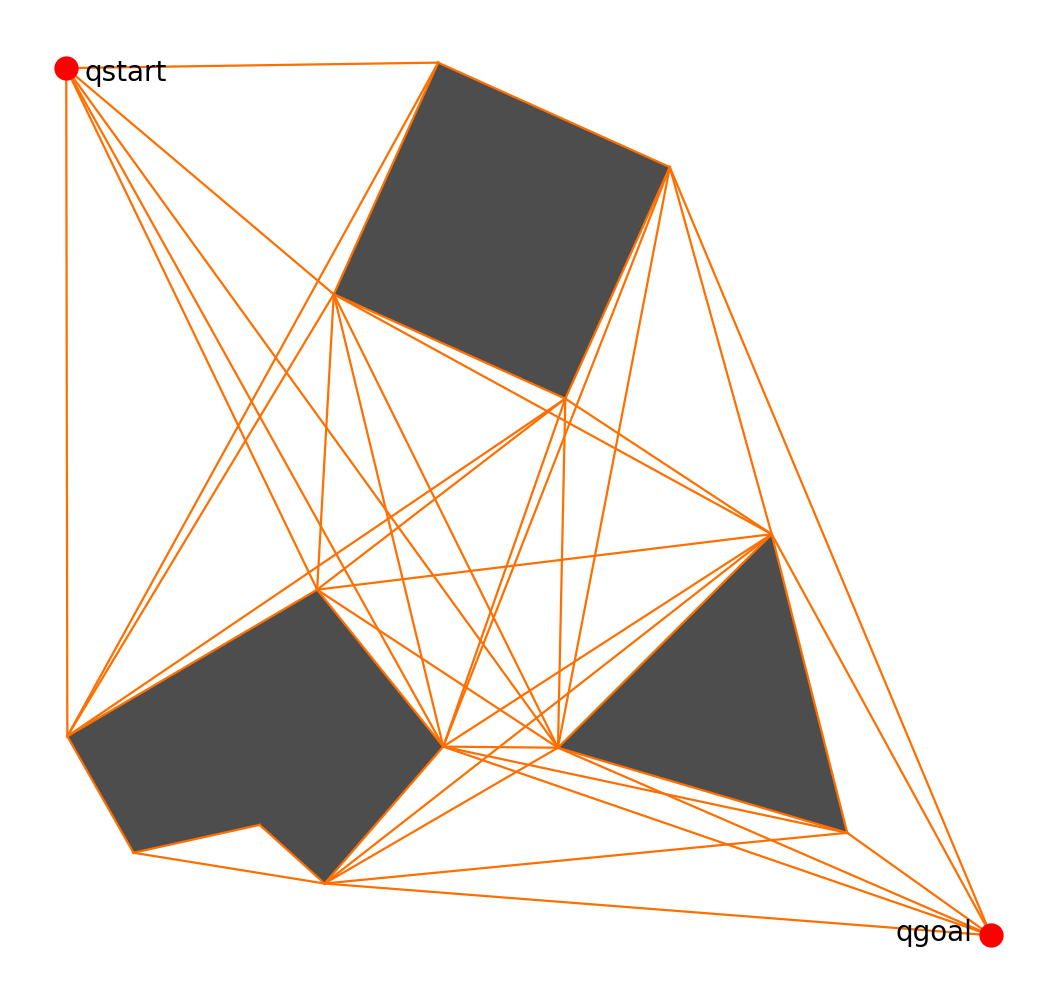
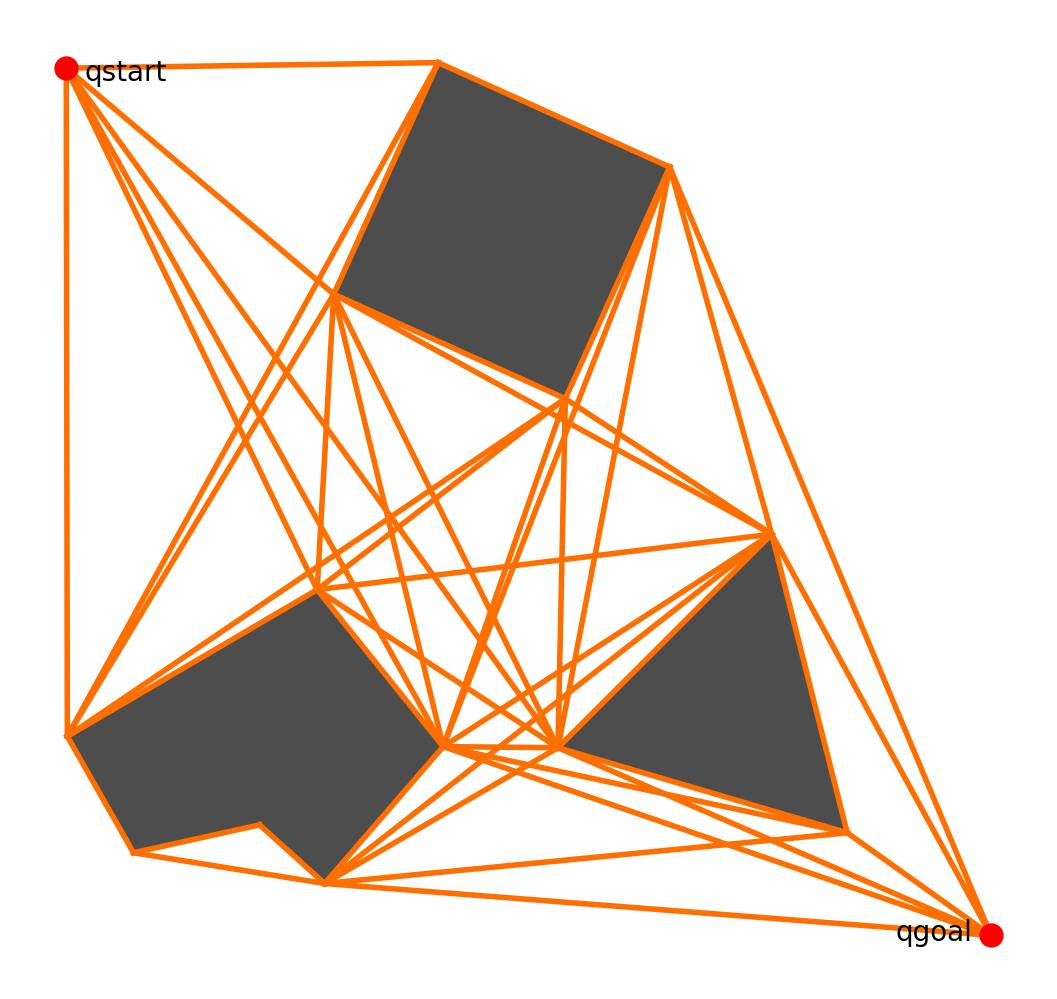
Atualizar mst

diff --git a/Caminho_Planejamento_Robo/Utils/plotar_mst.py b/Caminho_Planejamento_Robo/Utils/plotar_mst.py
@@ -1,0 +1,47 @@
+from pathlib import Path
+from Utils.file_reader import read_map_from_file
+from Modulos.visibility_graph import build_visibility_graph, VisibilityGraph
+from Modulos.kruskal import Graph as KruskalGraph
+from Utils.plotar_mapa import plot_map
+
+def build_mst_from_visibility(mapa):
+    vis = build_visibility_graph(mapa)
+    verts = vis.get_vertices()
+    idx_of = {v: i for i, v in enumerate(verts)}
+    n = len(verts)
+
+    kg = KruskalGraph(n)
+    for a, b, w in vis.get_edges():
+        ua, ub = idx_of[a], idx_of[b]
+        kg.add_edge(ua, ub, w)
+
+    mst_idx_edges, total_cost = kg.kruskal_mst()
+
+    mst_graph = VisibilityGraph()
+    for u_idx, v_idx, w in mst_idx_edges:
+        a = verts[u_idx]
+        b = verts[v_idx]
+        mst_graph.add_edge(a, b, w)
+
+    return vis, mst_graph, total_cost   
+
+
+if __name__ == "__main__":
+    project_root = Path(__file__).resolve().parent.parent
+    map_path = project_root / "Mapa" / "map1.txt"
+    if not map_path.is_file():
+        print("Arquivo map1.txt não encontrado em:", map_path)
+    else:
+        mapa = read_map_from_file(str(map_path))
+        grafo, mst_graph, cost = build_mst_from_visibility(mapa)
+        plot_map(mapa,grafo=grafo, mst_graph=mst_graph, save_path="mapa_mst.png")
+
+        num_vertices = len(mst_graph.get_vertices())
+        num_edges = len(mst_graph.get_edges())
+
+        print(f"Vertices na MST: {num_vertices}")
+        print(f"Arestas na MST: {num_edges}")
+        print(f"Custo total (distância): {cost}")
+        print(f"MST gerada e salva em mapa_mst.png (custo={cost})")
+
+             

diff --git a/Caminho_Planejamento_Robo/Modulos/kruskal.py b/Caminho_Planejamento_Robo/Modulos/kruskal.py
@@ -1,0 +1,57 @@
+class Graph:
+    def __init__(self, vertices):
+        self.V = vertices
+        self.edges = []  # lista de (u,v,w)
+
+    def add_edge(self, u, v, w):
+        self.edges.append((u, v, w))
+
+    def find(self, parent, i):
+        if parent[i] != i:
+            parent[i] = self.find(parent, parent[i])
+        return parent[i]
+
+    def union(self, parent, rank, x, y):
+        if rank[x] < rank[y]:
+            parent[x] = y
+        elif rank[x] > rank[y]:
+            parent[y] = x
+        else:
+            parent[y] = x
+            rank[x] += 1
+
+    def kruskal_mst(self):
+        result = []
+        i = 0
+        e = 0
+        self.edges.sort(key=lambda item: item[2])
+        parent = list(range(self.V))
+        rank = [0] * self.V
+
+        while e < self.V - 1 and i < len(self.edges):
+            u, v, w = self.edges[i]
+            i += 1
+            x = self.find(parent, u)
+            y = self.find(parent, v)
+            if x != y:
+                result.append((u, v, w))
+                self.union(parent, rank, x, y)
+                e += 1
+
+        total_cost = sum(w for _, _, w in result)
+        return result, total_cost
+
+
+if __name__ == '__main__':
+    g = Graph(4)
+    g.add_edge(0, 1, 10)
+    g.add_edge(0, 2, 6)
+    g.add_edge(0, 3, 5)
+    g.add_edge(1, 3, 15)
+    g.add_edge(2, 3, 4)
+
+    mst, cost = g.kruskal_mst()
+    print("Edges in the constructed MST")
+    for u, v, w in mst:
+        print(f"{u} -- {v} == {w}")
+    print("Minimum Spanning Tree", cost)

diff --git a/Caminho_Planejamento_Robo/Utils/plotar_mapa.py b/Caminho_Planejamento_Robo/Utils/plotar_mapa.py
@@ -3,7 +3,7 @@ from matplotlib.patches import Polygon
 from pathlib import Path
 from Utils.file_reader import read_map_from_file
 
-def plot_map(map_obj, grafo=None, save_path=None):
+def plot_map(map_obj, grafo=None, mst_graph=None, path=None, save_path=None):
     fig, ax = plt.subplots()
     ax.set_aspect('equal')
 
@@ -19,8 +19,18 @@ def plot_map(map_obj, grafo=None, save_path=None):
     
     if grafo:
         for v1,v2,_ in grafo.get_edges():
-            ax.plot([v1.x, v2.x], [v1.y, v2.y], c="#FF6F00", linewidth=0.8, alpha=1.0, zorder=2)
+            ax.plot([v1.x, v2.x], [v1.y, v2.y], c="#FF6F00", linewidth=2.0, alpha=1.0, zorder=2)
 
+    if mst_graph:
+        for v1, v2, _ in mst_graph.get_edges():
+            ax.plot([v1.x, v2.x], [v1.y, v2.y], c="#0F15CA", linewidth=3.0, alpha=1.0, zorder=3)
+    
+    if path:
+        if len(path) >= 2:
+            xs = [p.x for p in path]
+            ys = [p.y for p in path]
+            ax.plot(xs, ys, c="#FF0000", linewidth=2.5, alpha=1.0, zorder=5)
+    
     ax.scatter([map_obj.q_start.x], [map_obj.q_start.y], c=point_color, s=60, zorder=4)
     ax.scatter([map_obj.q_goal.x], [map_obj.q_goal.y], c=point_color, s=60, zorder=4)
 
